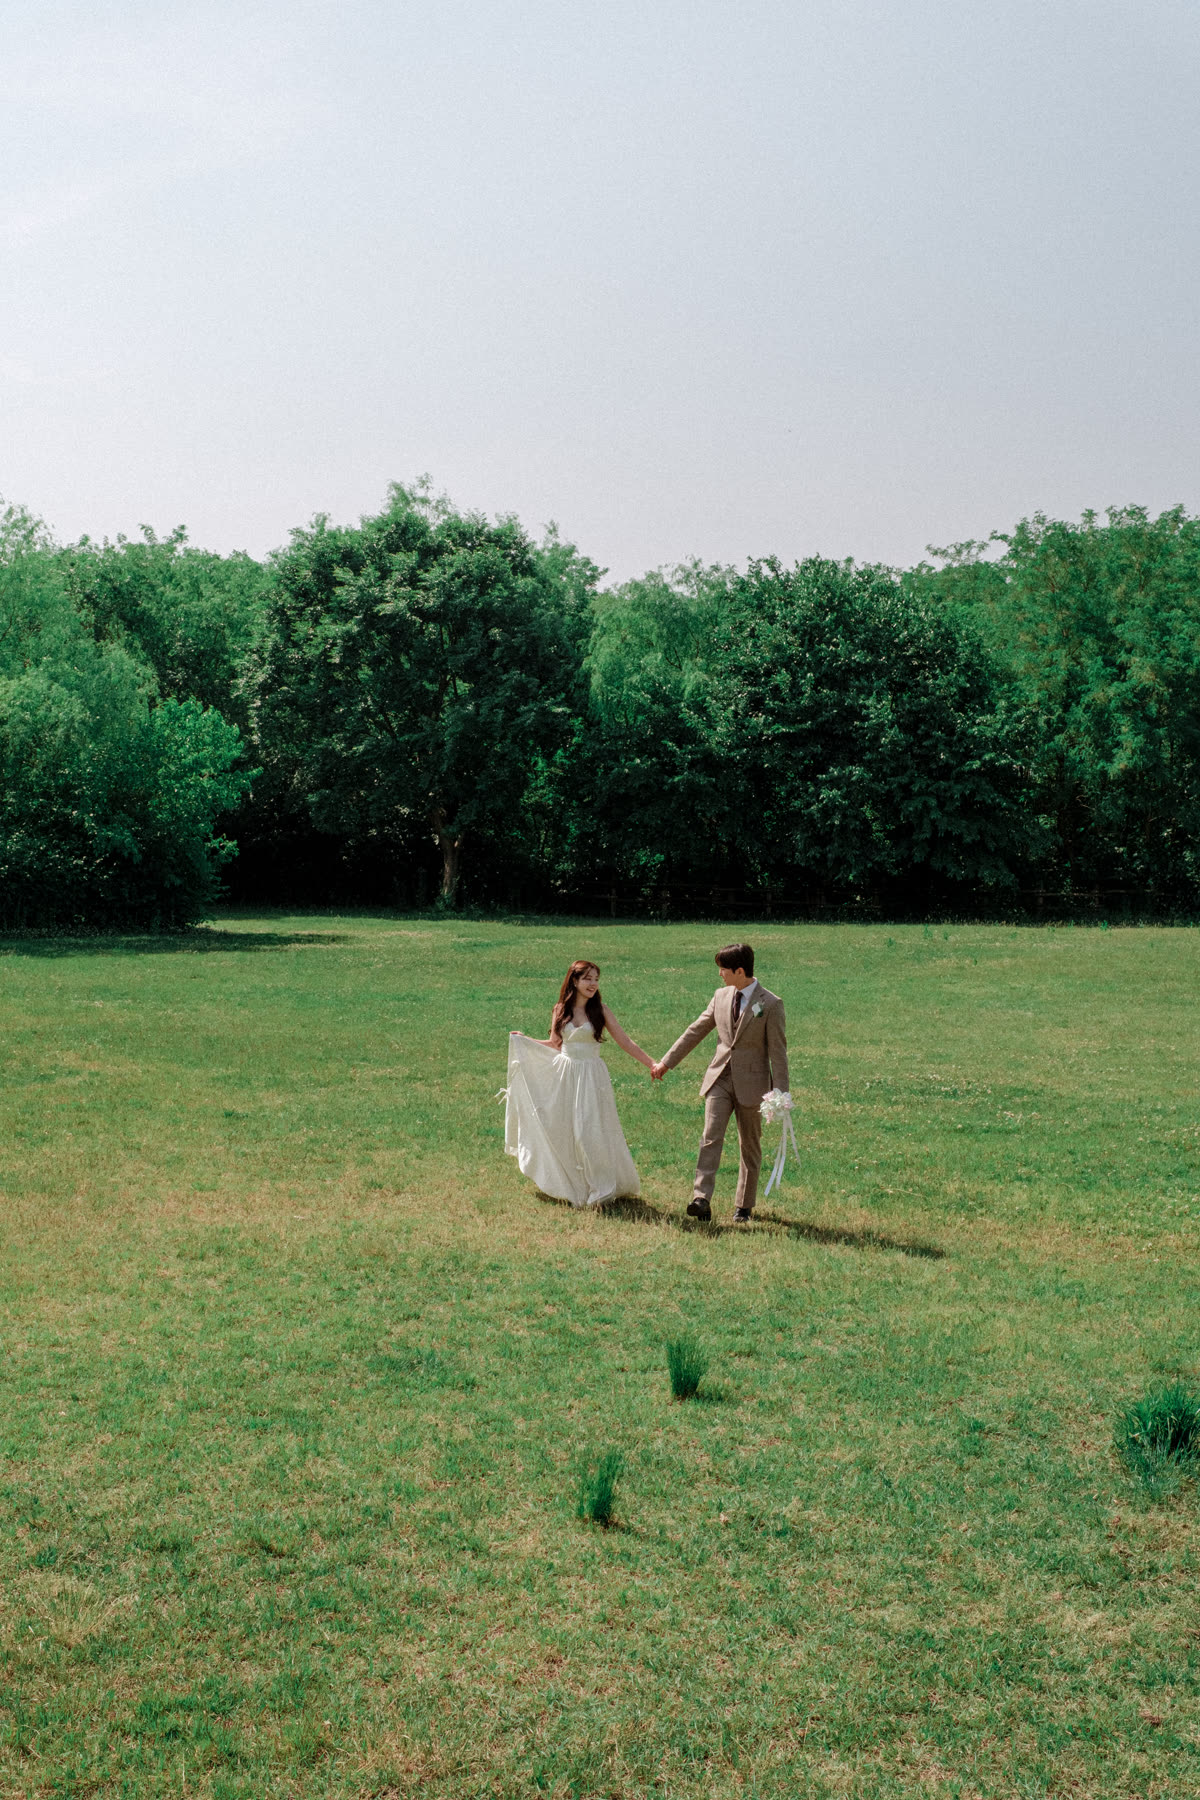
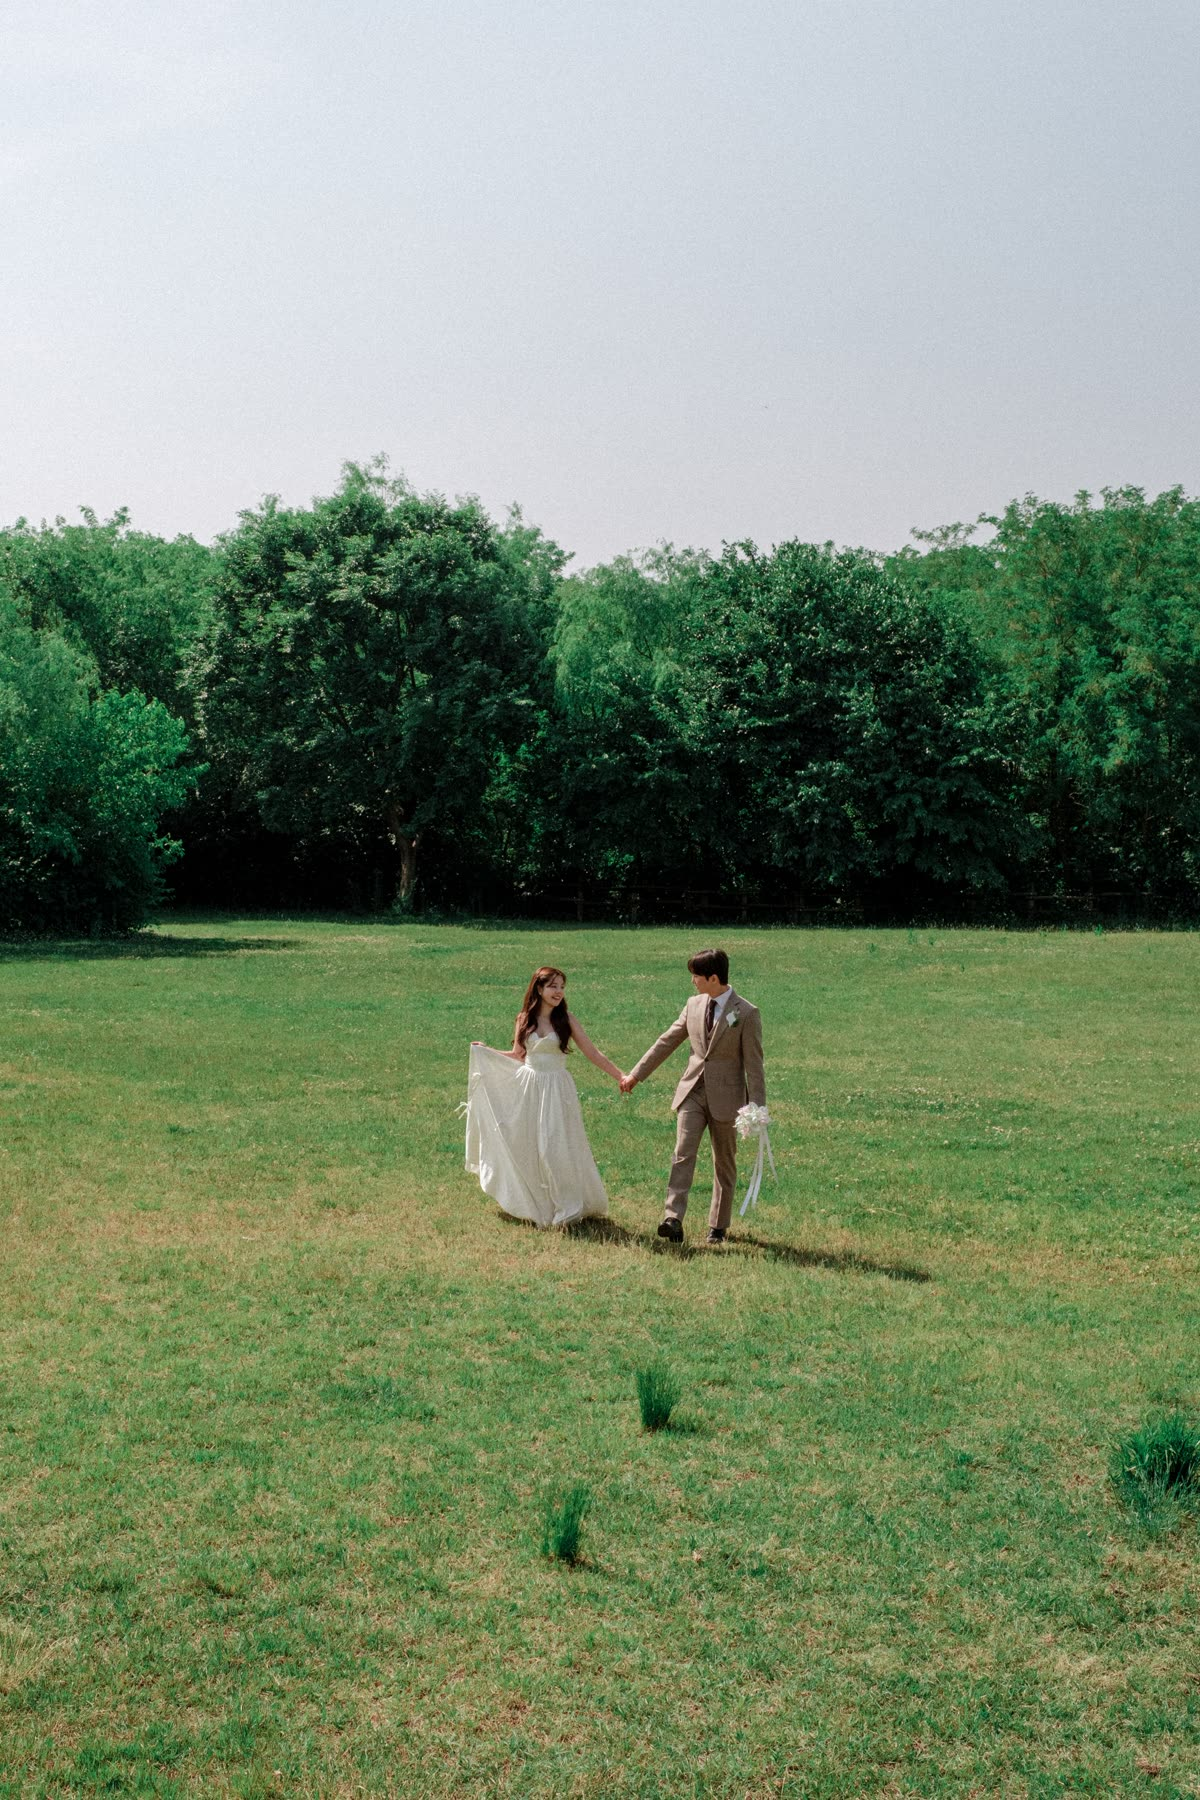
커버 리디자인 배포: 새 메인 사진 + Alex Brush 흘림체 오버레이

diff --git a/index.html b/index.html
@@ -18,6 +18,10 @@
 <meta name="twitter:card" content="summary_large_image" />
 <link rel="preconnect" href="https://cdn.jsdelivr.net" crossorigin />
 <link rel="stylesheet" as="style" crossorigin href="https://cdn.jsdelivr.net/gh/orioncactus/pretendard@v1.3.9/dist/web/static/pretendard.min.css" />
+<!-- 커버 전용: 영문 흘림(Alex Brush) + 명조(Playfair Display) -->
+<link rel="preconnect" href="https://fonts.googleapis.com" />
+<link rel="preconnect" href="https://fonts.gstatic.com" crossorigin />
+<link rel="stylesheet" href="https://fonts.googleapis.com/css2?family=Alex+Brush&family=Playfair+Display:ital,wght@0,400;0,500;1,400&display=swap" />
 <style>
   :root{
     --bg:#f7f5f1; --bg-2:#f1efe9; --paper:#ffffff; --pink-bg:#f7efef;
@@ -49,26 +53,36 @@
   /* COVER intro (full-bleed hero) — cinematic slow fade + ken-burns */
   @keyframes fadeUp{from{opacity:0;transform:translateY(22px)}to{opacity:1;transform:none}}
   @keyframes coverZoom{from{transform:scale(1.12)}to{transform:scale(1)}}
-  .cover .cover-info{opacity:0;animation:fadeUp 1.8s cubic-bezier(.22,.61,.25,1) forwards;animation-delay:.7s}
-  @media (prefers-reduced-motion:reduce){.cover .cover-bg{animation:none}.cover .cover-info{animation:none;opacity:1}}
+  @keyframes fadeIn{from{opacity:0}to{opacity:1}}
+  .cover .cover-script{opacity:0;animation:fadeIn 1.9s ease .35s forwards}
+  .cover .cover-info{opacity:0;animation:fadeUp 1.8s cubic-bezier(.22,.61,.25,1) forwards;animation-delay:1.15s}
+  @media (prefers-reduced-motion:reduce){.cover .cover-bg{animation:none}.cover .cover-script,.cover .cover-info{animation:none;opacity:1}}
   .btn-line{display:inline-flex;align-items:center;gap:8px;padding:14px 28px;border:1px solid var(--line);
     border-radius:40px;background:var(--paper);color:var(--ink);font-size:14px;font-family:'Pretendard',sans-serif;cursor:pointer}
 
-  /* COVER (full-bleed photo + handwriting overlay) */
+  /* COVER (full-bleed photo + Alex Brush 스크립트 오버레이) */
   .cover{position:relative;height:100dvh;min-height:600px;padding:0;overflow:hidden;
     display:flex;flex-direction:column;justify-content:flex-end;text-align:center}
   .cover-bg{position:absolute;inset:0;z-index:0;
-    background:url(images/cover/cover.jpg) 50% 46%/cover no-repeat #2a2622;
+    background:url(images/cover/cover.jpg) 50% 50%/cover no-repeat #2a2622;
     animation:coverZoom 6.5s ease-out both}
-  /* 하단 이름 가독성용 그라디언트(상단은 사진 자연스럽게 밝게) */
+  /* 상·하 어둠 베일(중앙 스크립트 + 하단 이름 가독성) */
   .cover-veil{position:absolute;inset:0;z-index:1;pointer-events:none;
-    background:linear-gradient(180deg,rgba(20,16,13,.18) 0%,rgba(20,16,13,.05) 26%,rgba(20,16,13,.08) 55%,rgba(20,16,13,.32) 78%,rgba(20,16,13,.64) 100%)}
-  .cover-info{position:relative;z-index:3;padding:0 30px 100px;color:#fff}
-  .cover-names{font-family:'Pretendard',sans-serif;font-size:15px;font-weight:300;letter-spacing:.12em;
-    text-shadow:0 1px 12px rgba(0,0,0,.5)}
-  .cover-names i{font-style:normal;color:rgba(255,255,255,.7);margin:0 5px;font-weight:200}
-  .cover-date{font-size:12px;letter-spacing:.18em;color:rgba(255,255,255,.85);margin-top:11px;font-weight:300;
-    text-shadow:0 1px 10px rgba(0,0,0,.5)}
+    background:linear-gradient(180deg,rgba(14,12,10,.46) 0%,rgba(14,12,10,.14) 34%,rgba(14,12,10,.10) 58%,rgba(14,12,10,.36) 80%,rgba(14,12,10,.68) 100%)}
+  /* 중앙 흘림 스크립트 (Alex Brush · 살짝 기울임) */
+  .cover-script{position:absolute;top:12%;left:0;right:0;z-index:3;pointer-events:none;text-align:center;color:#fff;
+    font-family:'Alex Brush',cursive;transform:rotate(-4deg);
+    text-shadow:0 3px 24px rgba(0,0,0,.42),0 1px 4px rgba(0,0,0,.3)}
+  .cover-script span{display:block;line-height:.9}
+  .cover-script .l1{font-size:clamp(38px,13vw,58px);transform:translateX(-13%)}
+  .cover-script .l2{font-size:clamp(58px,21vw,92px)}
+  .cover-script .l3{font-size:clamp(42px,15vw,66px);transform:translateX(15%)}
+  .cover-info{position:relative;z-index:3;padding:0 30px 92px;color:#fff}
+  .cover-names{font-family:'Playfair Display',serif;font-size:20px;font-weight:500;letter-spacing:.04em;
+    text-shadow:0 2px 16px rgba(0,0,0,.5)}
+  .cover-names i{font-style:normal;color:rgba(255,255,255,.72);margin:0 5px;font-weight:400}
+  .cover-date{font-family:'Playfair Display',serif;font-size:14px;letter-spacing:.07em;color:rgba(255,255,255,.9);margin-top:12px;
+    text-shadow:0 2px 12px rgba(0,0,0,.5)}
 
   /* INVITATION */
   .invite{text-align:center}
@@ -359,6 +373,7 @@
   <section class="cover">
     <div class="cover-bg"></div>
     <div class="cover-veil"></div>
+    <div class="cover-script" aria-hidden="true"><span class="l1">and</span><span class="l2">happily</span><span class="l3">ever after</span></div>
     <div class="cover-info">
       <div class="cover-names">Hyungeun Oh <i>&amp;</i> Woojin Lee</div>
       <div class="cover-date">2026.10.24.SAT 13:00</div>